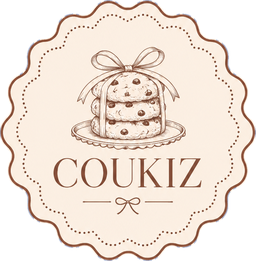
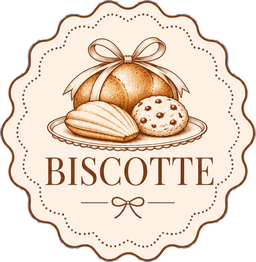
Nouveau visuel Biscotte : médaillon, nœud, illustration par défaut et icône
Fichiers renommés pour que les caches (serveur d'images, navigateurs) ne
servent plus l'ancien logo. Nom par défaut de la boutique : Biscotte.

Claude-Session: https://claude.ai/code/session_01PP7MaxjNM2qTMkwoYKMZzh

diff --git a/src/app/(shop)/page.tsx b/src/app/(shop)/page.tsx
@@ -33,7 +33,7 @@ export default async function HomePage() {
         <p className="mx-auto mt-4 max-w-md text-chocolat/80">
           Commandez au plus tard {settings.leadTimeHours} heures avant le retrait, puis passez chercher votre commande au point de retrait choisi.
         </p>
-        <Image src="/ornement-noeud.png" alt="" width={270} height={70} className="mx-auto mt-8 w-44" />
+        <Image src="/ornement-noeud-biscotte.png" alt="" width={263} height={62} className="mx-auto mt-8 w-44" />
       </section>
 
       {!open && <p className="mt-10 rounded-lg border-2 border-dotted border-cacao/50 px-5 py-4 text-center text-lg">{settings.closedMessage}</p>}
@@ -62,7 +62,7 @@ export default async function HomePage() {
                   hasImages && (
                     // Pas encore de photo : l'illustration gravée du logo, pour garder la carte alignée
                     <div className="cadre-photo hidden sm:block">
-                      <Image src="/illustration-biscuits.webp" alt="" width={420} height={420} className="aspect-[3/2] w-full rounded-xl object-contain" />
+                      <Image src="/illustration-biscotte.webp" alt="" width={582} height={388} className="aspect-[3/2] w-full rounded-xl object-contain" />
                     </div>
                   )
                 )}

diff --git a/src/app/admin/(panel)/layout.tsx b/src/app/admin/(panel)/layout.tsx
@@ -4,7 +4,7 @@ import { requireAdmin } from "@/lib/auth";
 import { logout } from "../actions";
 
 export const dynamic = "force-dynamic";
-export const metadata = { title: "Administration Coukiz" };
+export const metadata = { title: "Administration Biscotte" };
 
 const NAV = [
   { href: "/admin", label: "Tableau de bord" },
@@ -23,7 +23,7 @@ export default async function AdminLayout({ children }: LayoutProps<"/admin">) {
         <div className="rayures h-2" aria-hidden />
         <div className="mx-auto flex max-w-6xl flex-wrap items-center gap-x-6 gap-y-2 px-4 py-3">
           <Link href="/admin" className="flex items-center gap-2">
-            <Image src="/logo-medaillon.webp" alt="" width={716} height={732} priority className="h-11 w-auto" />
+            <Image src="/logo-biscotte.webp" alt="" width={716} height={732} priority className="h-11 w-auto" />
             <span className="text-sm text-chocolat/75">Administration</span>
           </Link>
           <nav className="flex flex-1 flex-wrap gap-1 text-sm">

diff --git a/src/components/site-header.tsx b/src/components/site-header.tsx
@@ -15,7 +15,7 @@ export function SiteHeader({ shopName }: { shopName: string }) {
       {home ? (
         // Accueil : le médaillon du logo, posé sur les rayures et à cheval sur l'étiquette
         <Image
-          src="/logo-medaillon.webp"
+          src="/logo-biscotte.webp"
           alt={shopName}
           width={716}
           height={732}
@@ -24,7 +24,7 @@ export function SiteHeader({ shopName }: { shopName: string }) {
         />
       ) : (
         <Link href="/" aria-label={`${shopName}, retour à la carte`} className="relative z-10 mx-auto -mb-14 block w-28 sm:w-32">
-          <Image src="/logo-medaillon.webp" alt="" width={716} height={732} priority className="drop-shadow-[0_6px_12px_rgba(92,49,34,0.2)]" />
+          <Image src="/logo-biscotte.webp" alt="" width={716} height={732} priority className="drop-shadow-[0_6px_12px_rgba(92,49,34,0.2)]" />
         </Link>
       )}
     </header>

diff --git a/src/app/(shop)/layout.tsx b/src/app/(shop)/layout.tsx
@@ -8,7 +8,7 @@ export default async function ShopLayout({ children }: LayoutProps<"/">) {
   const settings = await getSettings();
   return (
     <CartProvider>
-      {/* Fond rayé du visuel Coukiz sur toute la page, le contenu est posé dessus comme une étiquette */}
+      {/* Fond rayé du visuel Biscotte sur toute la page, le contenu est posé dessus comme une étiquette */}
       <div className="rayures flex min-h-screen flex-col pb-6">
         <SiteHeader shopName={settings.shopName} />
         <main className="etiquette mx-auto mt-6 w-[calc(100%-1.5rem)] max-w-4xl flex-1 px-5 pt-14 pb-14 sm:mt-8 sm:w-[calc(100%-4rem)] sm:px-12">

diff --git a/src/app/(shop)/panier/page.tsx b/src/app/(shop)/panier/page.tsx
@@ -2,7 +2,7 @@ import { getBookableSlots } from "@/lib/orders";
 import { enabledPaymentMethods, getSettings } from "@/lib/settings";
 import { CheckoutForm } from "./checkout-form";
 
-export const metadata = { title: "Panier, Coukiz" };
+export const metadata = { title: "Panier, Biscotte" };
 
 export default async function CartPage({ searchParams }: PageProps<"/panier">) {
   const [settings, points, sp] = await Promise.all([getSettings(), getBookableSlots(), searchParams]);

diff --git a/src/app/layout.tsx b/src/app/layout.tsx
@@ -6,7 +6,7 @@ const body = Jost({ variable: "--font-body", subsets: ["latin", "latin-ext"] });
 const roman = Gilda_Display({ variable: "--font-roman", weight: "400", subsets: ["latin", "latin-ext"] });
 
 export const metadata: Metadata = {
-  title: "Coukiz, biscuits de Noël",
+  title: "Biscotte, biscuits de Noël",
   description: "Commandez vos biscuits et douceurs de Noël et retirez-les au point de retrait de votre choix.",
 };
 

diff --git a/src/app/admin/(auth)/login/page.tsx b/src/app/admin/(auth)/login/page.tsx
@@ -4,7 +4,7 @@ import { isAdmin } from "@/lib/auth";
 import { login } from "../../actions";
 
 export const dynamic = "force-dynamic";
-export const metadata = { title: "Connexion, administration Coukiz" };
+export const metadata = { title: "Connexion, administration Biscotte" };
 
 export default async function LoginPage() {
   if (await isAdmin()) redirect("/admin");

diff --git a/src/app/(shop)/commande/[id]/page.tsx b/src/app/(shop)/commande/[id]/page.tsx
@@ -7,7 +7,7 @@ import { markStripeOrderPaid } from "@/lib/orders";
 import { getSettings } from "@/lib/settings";
 import { getStripe } from "@/lib/stripe";
 
-export const metadata = { title: "Ma commande, Coukiz" };
+export const metadata = { title: "Ma commande, Biscotte" };
 
 const STATUS_TEXT = {
   AWAITING_PAYMENT: "en attente de la confirmation du paiement",

diff --git a/src/lib/settings.ts b/src/lib/settings.ts
@@ -1,7 +1,7 @@
 import { db } from "./db";
 
 export const SETTING_DEFAULTS = {
-  shopName: "Coukiz",
+  shopName: "Biscotte",
   shopTagline: "Biscuits et douceurs de Noël, à commander en ligne et à retirer sur place.",
   shopOpen: "true",
   closedMessage: "Les commandes sont fermées pour le moment. Revenez bientôt !",

diff --git a/src/app/globals.css b/src/app/globals.css
@@ -1,7 +1,7 @@
 @import "tailwindcss";
 
 @theme {
-  /* Identité Coukiz, tirée du logo */
+  /* Identité Biscotte, tirée du logo */
   --color-creme: #fbefe3; /* fond, intérieur du médaillon */
   --color-papier: #fffaf4; /* champs et surfaces */
   --color-chocolat: #5c3122; /* texte, boutons */

diff --git a/README.md b/README.md
@@ -1,4 +1,4 @@
-# Brio — boutique de Noël Coukiz (retrait uniquement)
+# Brio — boutique de Noël Biscotte (retrait uniquement)
 
 Site de commande en ligne pour une boulangerie : peu de références, **aucune livraison**, retrait sur un créneau dans un point de retrait.
 
